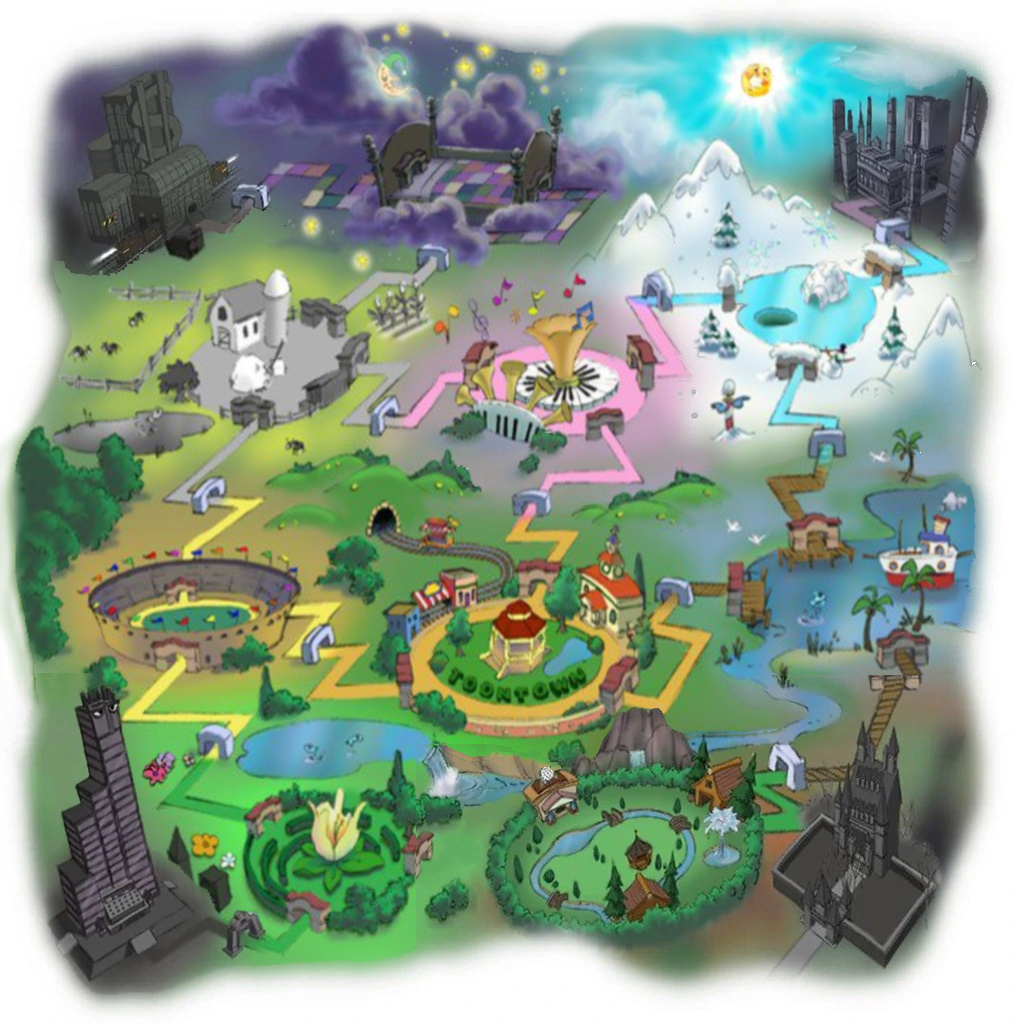
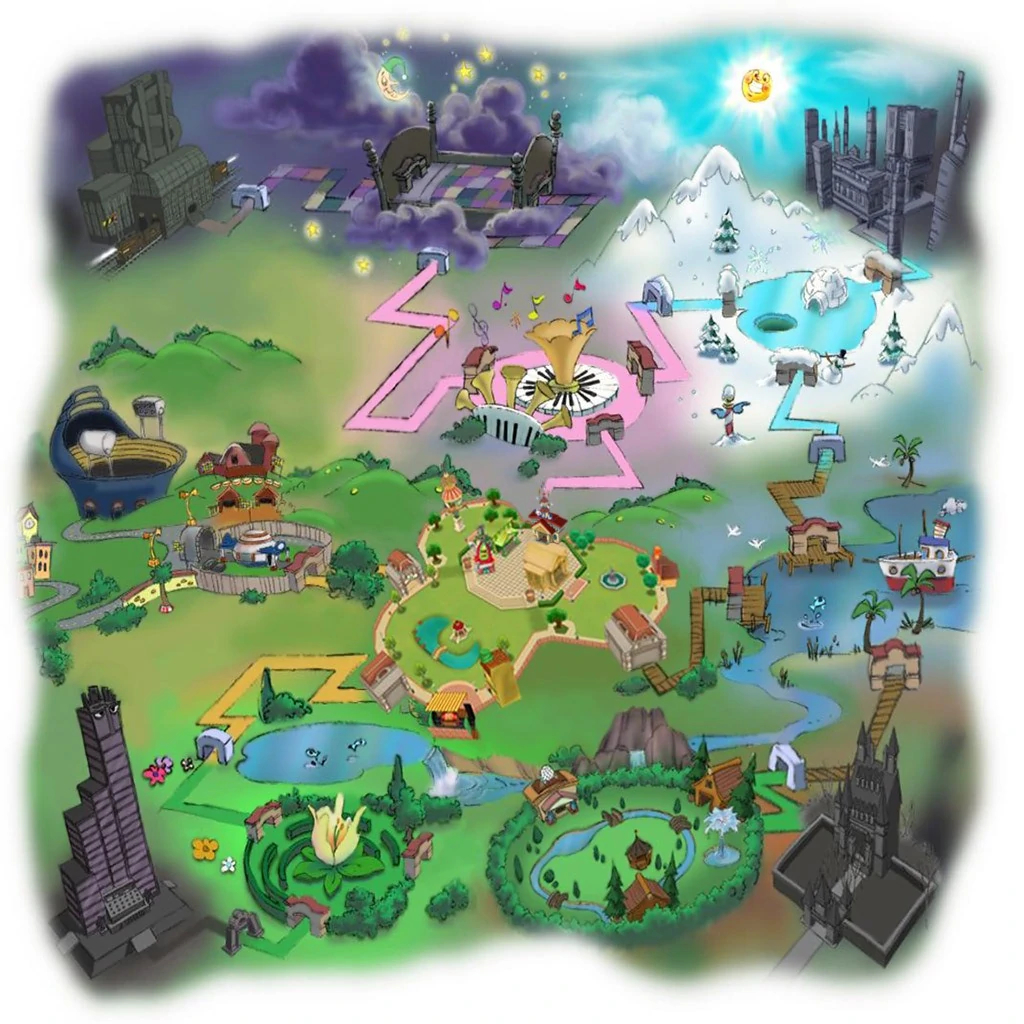
Updated source.
Reverted the map to the old one until I can figure out how to move nametags. I updated ToDo list, and renamed the HQ part of the Courtyard to remove duplicates.

diff --git a/toontown/toonbase/TTLocalizerEnglish.py b/toontown/toonbase/TTLocalizerEnglish.py
@@ -105,22 +105,22 @@ GlobalStreetNames = {20000: ('to', 'on', 'Tutorial Terrace'),
                      9000: ('to the', 'in the', 'Playground'),
                      9100: ('to', 'on', 'Lullaby Lane'),
                      9200: ('to', 'on', 'Pajama Place'),
-                     10000: ('to', 'in', 'Bossbot Headquarters Country Club'),
-                     10100: ('to the', 'in the', 'Bossbot Headquarters Lobby'),
+                     10000: ('to', 'in', 'Bossbot Country Club'),
+                     10100: ('to the', 'in the', 'Bossbot Lobby'),
                      10200: ('to the', 'in the', 'The Clubhouse'),
                      10500: ('to the', 'in the', 'The Front Three'),
                      10600: ('to the', 'in the', 'The Middle Six'),
                      10700: ('to the', 'in the', 'The Back Nine'),
-                     11000: ('to the', 'in the', 'Sellbot Headquarters Courtyard'),
-                     11100: ('to the', 'in the', 'Sellbot Headquarters Lobby'),
+                     11000: ('to the', 'in the', 'Sellbot Courtyard'),
+                     11100: ('to the', 'in the', 'Sellbot Lobby'),
                      11200: ('to the', 'in the', 'Sellbot Factory'),
                      11500: ('to the', 'in the', 'Sellbot Factory'),
                      12000: ('to', 'in', 'Cashbot Train Yard'),
-                     12100: ('to the', 'in the', 'Cashbot Headquarters Lobby'),
+                     12100: ('to the', 'in the', 'Cashbot Lobby'),
                      12500: ('to the', 'in the', 'Cashbot Coin Mint'),
                      12600: ('to the', 'in the', 'Cashbot Dollar Mint'),
                      12700: ('to the', 'in the', 'Cashbot Bullion Mint'),
-                     13000: ('to', 'in', 'Lawbot Headquarters Courtyard'),
+                     13000: ('to', 'in', 'Lawbot Courtyard'),
                      13100: ('to the', 'in the', 'Courthouse Lobby'),
                      13200: ('to the', 'in the', "DA's Office Lobby"),
                      13300: ('to the', 'in the', 'Lawbot A Office'),
